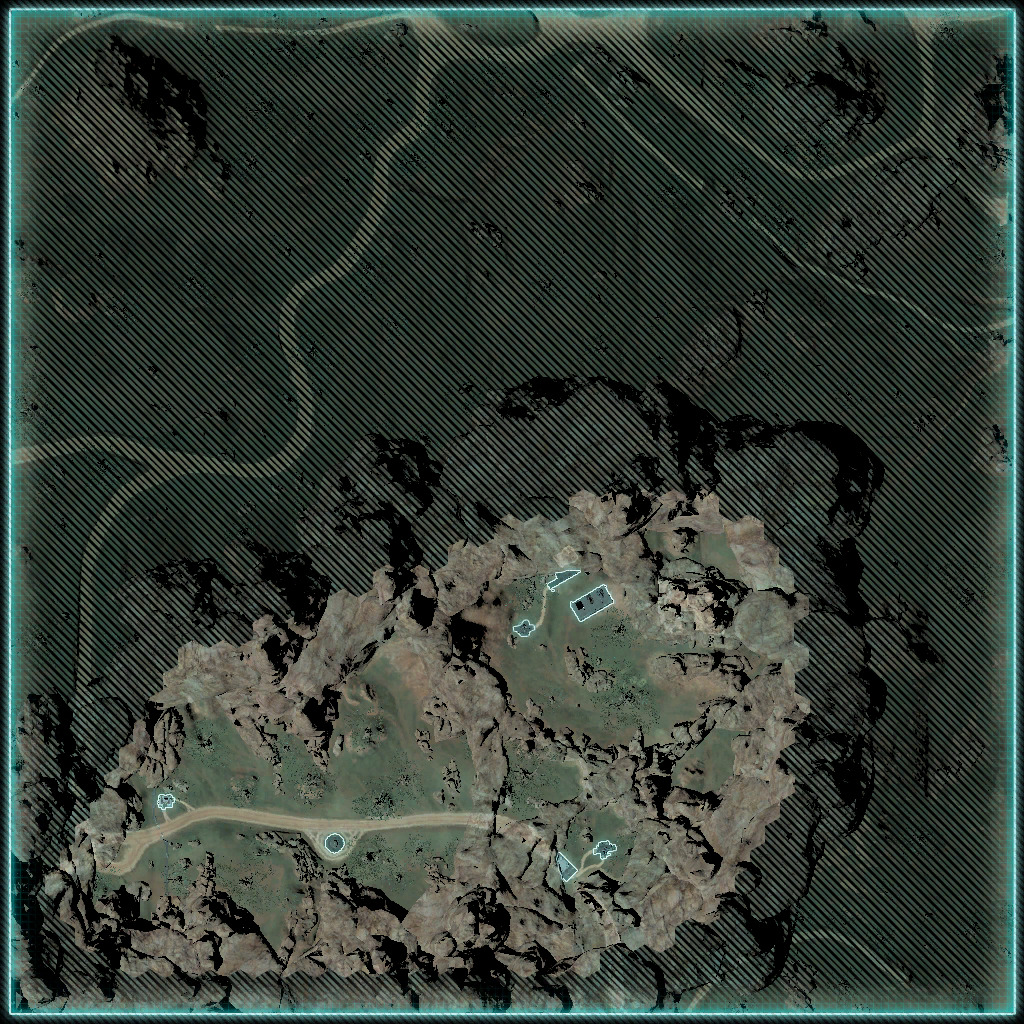
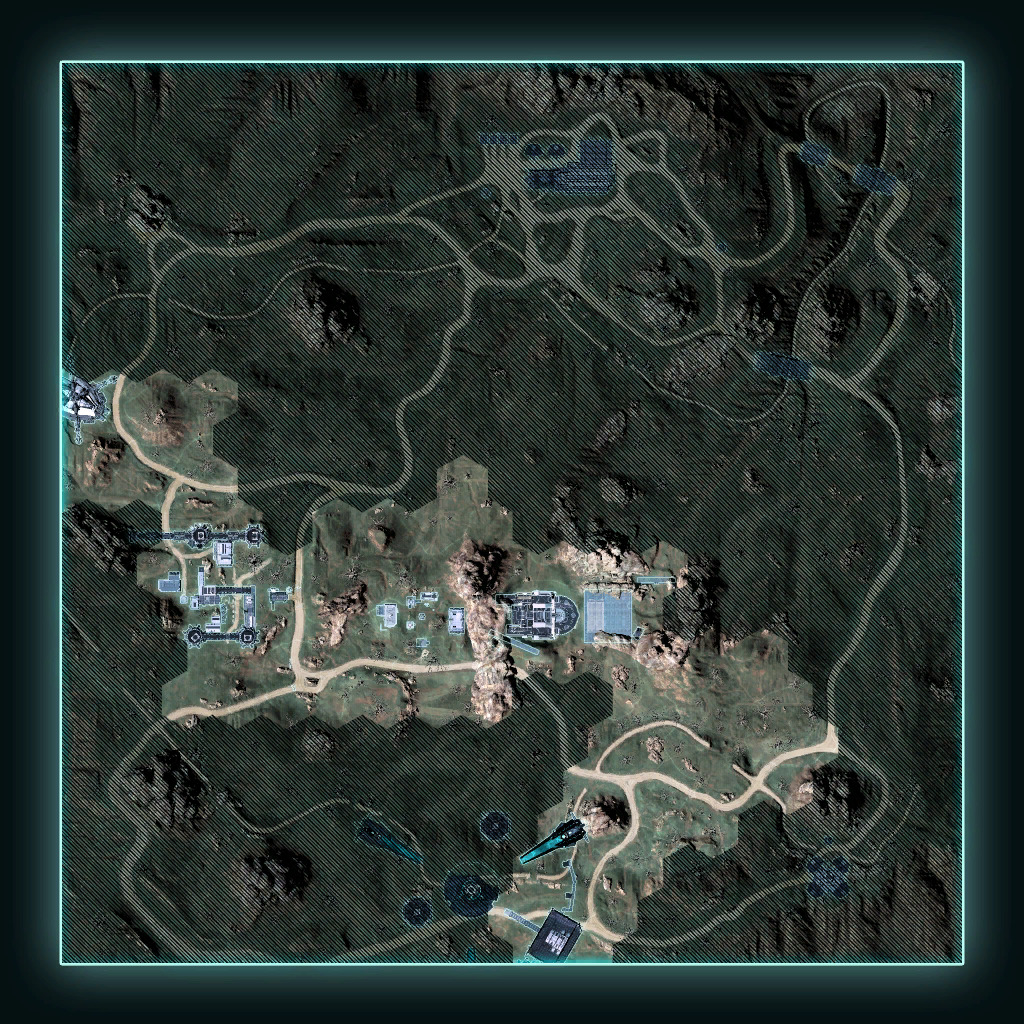
Update tutorial map. Scaffold PlayerFacilityCapture components.

diff --git a/UVOCBot/Workers/GenericWorker.cs b/UVOCBot/Workers/GenericWorker.cs
@@ -70,7 +70,7 @@ namespace UVOCBot.Workers
                         /* Resubscribe to our census events */
                         IEventStreamClient client = _eventStreamClientFactory.GetClient(BotConstants.CENSUS_EVENTSTREAM_CLIENT_NAME);
                         if (client.IsRunning)
-                            await client.SendCommandAsync(BotConstants.CENSUS_SUBSCRIPTION, ct).ConfigureAwait(false);
+                            await client.SendCommandAsync(BotConstants.CORE_CENSUS_SUBSCRIPTION, ct).ConfigureAwait(false);
                     }
                     catch (Exception ex) when (ex is not TaskCanceledException)
                     {

diff --git a/UVOCBot/Model/EventStream/PlayerFacilityCapture.cs b/UVOCBot/Model/EventStream/PlayerFacilityCapture.cs
@@ -1,0 +1,21 @@
+using DbgCensus.Core.Objects;
+using System;
+
+namespace UVOCBot.Model.EventStream
+{
+    public class PlayerFacilityCapture
+    {
+        public ulong CharacterID { get; set; }
+        public string EventName { get; set; }
+        public uint FacilityID { get; set; }
+        public ulong OutfitID { get; set; }
+        public DateTimeOffset Timestamp { get; set; }
+        public WorldDefinition WorldID { get; set; }
+        public ZoneDefinition ZoneID { get; set; }
+
+        public PlayerFacilityCapture()
+        {
+            EventName = "PlayerFacilityCapture";
+        }
+    }
+}

diff --git a/UVOCBot/Responders/Census/PlayerFacilityCaptureResponder.cs b/UVOCBot/Responders/Census/PlayerFacilityCaptureResponder.cs
@@ -1,0 +1,17 @@
+using DbgCensus.EventStream.EventHandlers.Abstractions;
+using DbgCensus.EventStream.EventHandlers.Objects.Event;
+using System;
+using System.Threading;
+using System.Threading.Tasks;
+using UVOCBot.Model.EventStream;
+
+namespace UVOCBot.Responders.Census
+{
+    public class PlayerFacilityCaptureResponder : ICensusEventHandler<ServiceMessage<PlayerFacilityCapture>>
+    {
+        public Task HandleAsync(ServiceMessage<PlayerFacilityCapture> censusEvent, CancellationToken ct = default)
+        {
+            throw new NotImplementedException();
+        }
+    }
+}

diff --git a/UVOCBot/Responders/Census/ConnectionStateChangedResponder.cs b/UVOCBot/Responders/Census/ConnectionStateChangedResponder.cs
@@ -21,7 +21,7 @@ namespace UVOCBot.Responders.Census
                 return;
 
             IEventStreamClient client = _clientFactory.GetClient(censusEvent.DispatchingClientName);
-            await client.SendCommandAsync(BotConstants.CENSUS_SUBSCRIPTION, ct).ConfigureAwait(false);
+            await client.SendCommandAsync(BotConstants.CORE_CENSUS_SUBSCRIPTION, ct).ConfigureAwait(false);
         }
     }
 }

diff --git a/UVOCBot/BotConstants.cs b/UVOCBot/BotConstants.cs
@@ -31,7 +31,7 @@ namespace UVOCBot
 
         public const string CENSUS_EVENTSTREAM_CLIENT_NAME = "main";
 
-        public static readonly SubscribeCommand CENSUS_SUBSCRIPTION = new(
+        public static readonly SubscribeCommand CORE_CENSUS_SUBSCRIPTION = new(
             new string[] { "all" },
             new string[] { EventNames.FACILITY_CONTROL },
             worlds: new string[] { "all" });

diff --git a/CHANGELOG.md b/CHANGELOG.md
@@ -1,5 +1,9 @@
 # Changelog
 
+## Release vNext
+
+- :warning: Updated the map assets. Ensure you update them in your installation.
+
 ## Release v0.4.2 - 14/09/2021
 
 - Added base capture tracking for specified outfits
